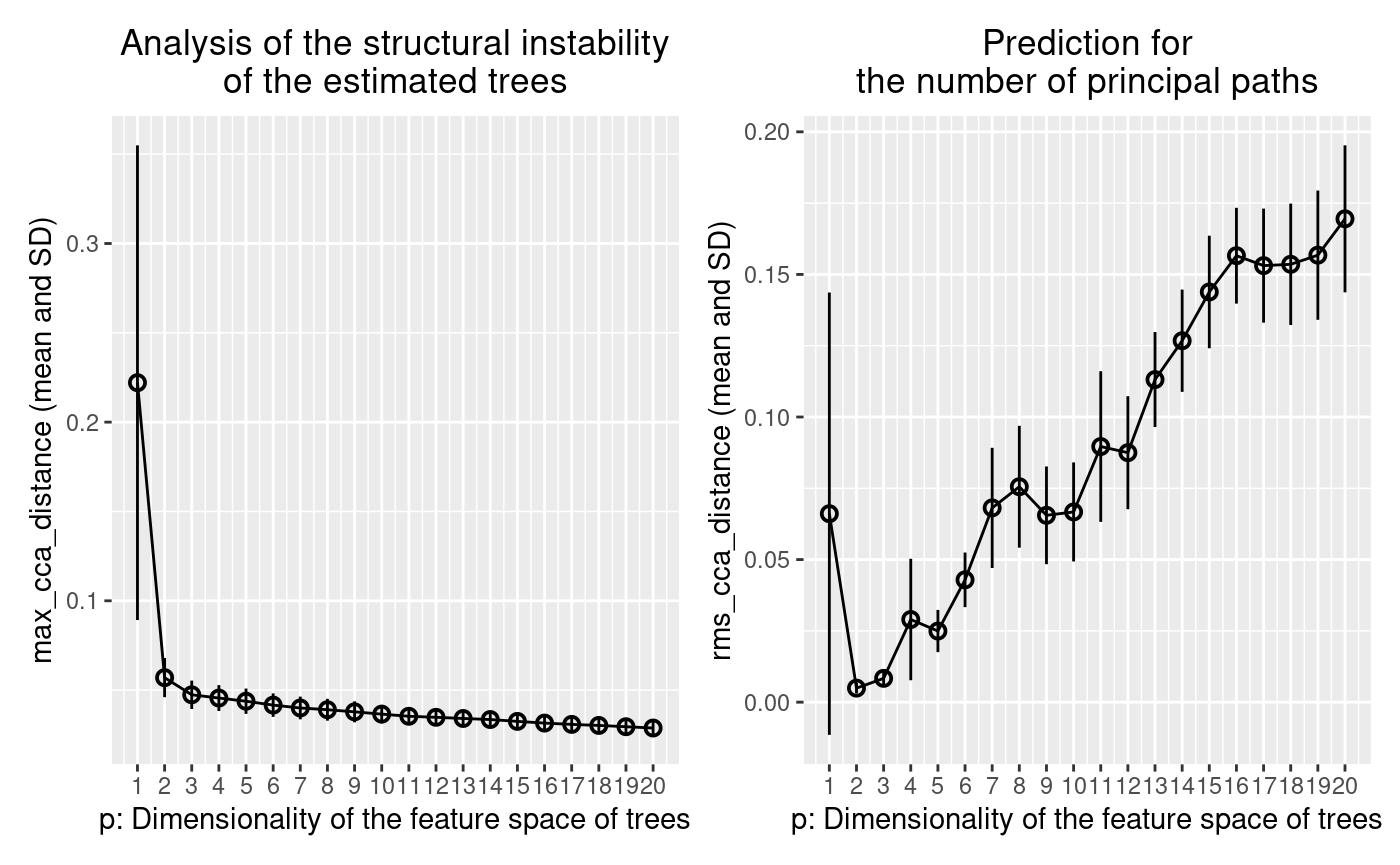
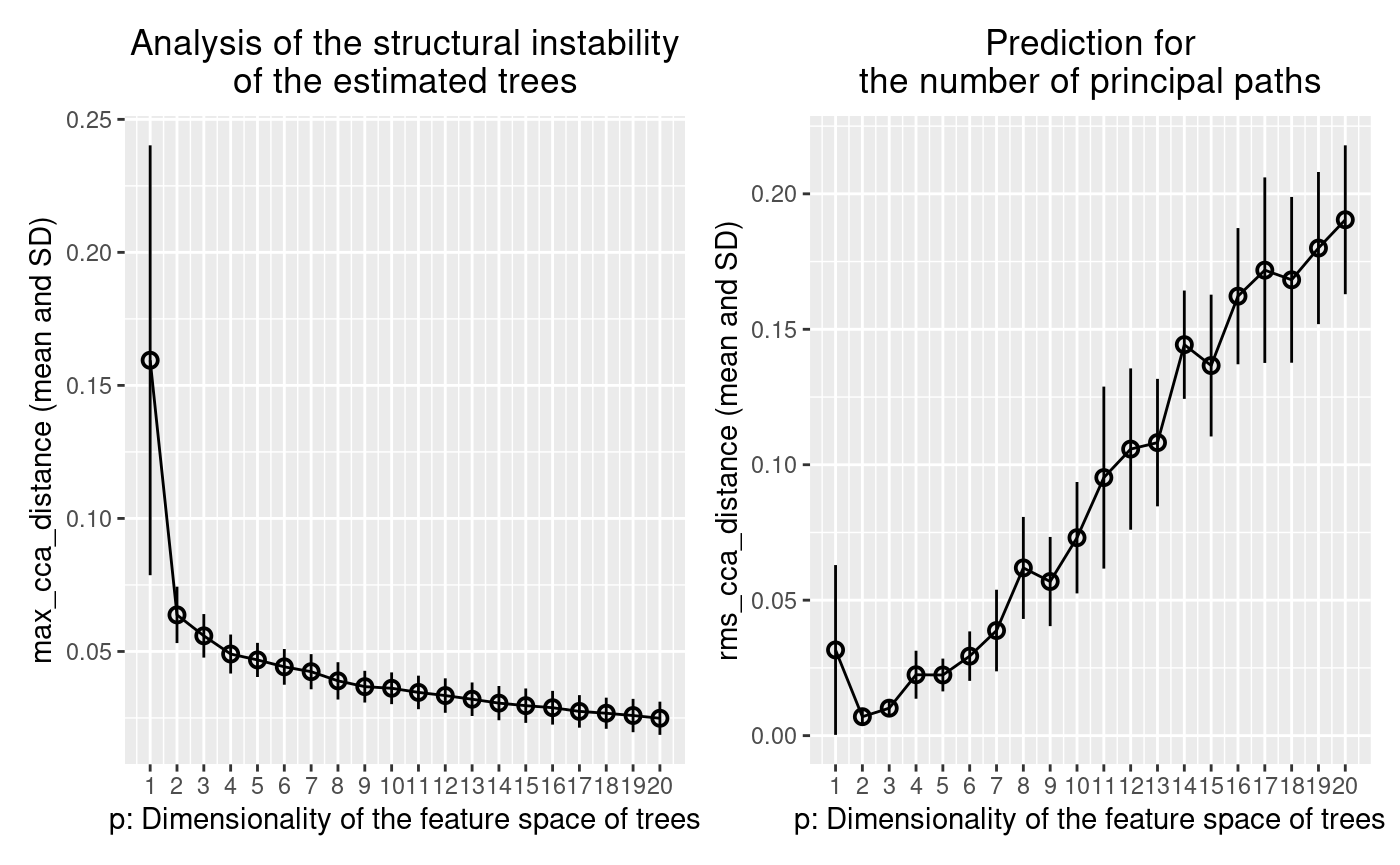
Update documents

diff --git a/docs/1.0.0/articles/treefit.html b/docs/1.0.0/articles/treefit.html
@@ -154,52 +154,52 @@ Figure 2. A scatter plot of noisy toy data generated by Treefit
 ## 
 ## $max_cca_distance
 ##     p       mean standard_deviation
-## 1   1 0.22207774        0.132862158
-## 2   2 0.05697850        0.010953653
-## 3   3 0.04738462        0.007957983
-## 4   4 0.04556243        0.007232552
-## 5   5 0.04378450        0.007089184
-## 6   6 0.04160476        0.006567665
-## 7   7 0.04000499        0.006366002
-## 8   8 0.03903339        0.006118847
-## 9   9 0.03784551        0.005884943
-## 10 10 0.03656626        0.005167894
-## 11 11 0.03535950        0.004591713
-## 12 12 0.03478244        0.004423653
-## 13 13 0.03413189        0.004124121
-## 14 14 0.03353995        0.004282381
-## 15 15 0.03250053        0.004323128
-## 16 16 0.03155152        0.003862960
-## 17 17 0.03081650        0.004078069
-## 18 18 0.03022886        0.004042348
-## 19 19 0.02951356        0.003714168
-## 20 20 0.02878805        0.003819793
+## 1   1 0.15944808        0.080786824
+## 2   2 0.06374979        0.010594737
+## 3   3 0.05587648        0.008190445
+## 4   4 0.04904369        0.007328796
+## 5   5 0.04681459        0.006417239
+## 6   6 0.04422028        0.006712903
+## 7   7 0.04240203        0.006598741
+## 8   8 0.03895063        0.007015447
+## 9   9 0.03677757        0.005962633
+## 10 10 0.03616917        0.005962774
+## 11 11 0.03461220        0.006298050
+## 12 12 0.03342942        0.006480975
+## 13 13 0.03204465        0.006298932
+## 14 14 0.03058407        0.006449666
+## 15 15 0.02963478        0.006458244
+## 16 16 0.02885938        0.006343777
+## 17 17 0.02747453        0.006120983
+## 18 18 0.02678371        0.005851636
+## 19 19 0.02592523        0.006254678
+## 20 20 0.02489788        0.006233318
 ## 
 ## $rms_cca_distance
 ##     p        mean standard_deviation
-## 1   1 0.066088256        0.077547827
-## 2   2 0.004920187        0.001889850
-## 3   3 0.008351593        0.002838944
-## 4   4 0.028980040        0.021295152
-## 5   5 0.024936437        0.007397961
-## 6   6 0.042898721        0.009581354
-## 7   7 0.068123332        0.021065050
-## 8   8 0.075547500        0.021376118
-## 9   9 0.065524849        0.017133722
-## 10 10 0.066702490        0.017372297
-## 11 11 0.089642823        0.026422857
-## 12 12 0.087491744        0.019813682
-## 13 13 0.113117000        0.016656673
-## 14 14 0.126741171        0.017928338
-## 15 15 0.143842413        0.019742957
-## 16 16 0.156566858        0.016792842
-## 17 17 0.153086987        0.019996273
-## 18 18 0.153545025        0.021279478
-## 19 19 0.156758730        0.022667627
-## 20 20 0.169489839        0.025778350
+## 1   1 0.031623874        0.031334581
+## 2   2 0.006987244        0.002337299
+## 3   3 0.010139801        0.002276433
+## 4   4 0.022470646        0.008861128
+## 5   5 0.022384100        0.006051647
+## 6   6 0.029345338        0.009124936
+## 7   7 0.038795822        0.015063872
+## 8   8 0.061913017        0.018826334
+## 9   9 0.056890818        0.016469581
+## 10 10 0.073066508        0.020558640
+## 11 11 0.095251498        0.033604789
+## 12 12 0.105779269        0.029774827
+## 13 13 0.108172778        0.023528394
+## 14 14 0.144323355        0.019997741
+## 15 15 0.136618158        0.026174061
+## 16 16 0.162222369        0.025141011
+## 17 17 0.171822259        0.034246384
+## 18 18 0.168259433        0.030607172
+## 19 19 0.179989614        0.028077026
+## 20 20 0.190436948        0.027476754
 ## 
 ## $n_principal_paths_candidates
-## [1]  3  6 10 13 18
+## [1]  3  6 10 16 19
 ## 
 ## attr(,"class")
 ## [1] "treefit"</code></pre>
@@ -217,7 +217,7 @@ Figure 3. The output for the tree-like data shown in Figure 1
 <a href="#less-tree-like-noisy-toy-data-1" class="anchor"></a>2.2. Less tree-like, noisy toy data</h3>
 <p>We can analyze the second toy data in the same manner.</p>
 <div class="sourceCode" id="cb6"><pre class="sourceCode r"><code class="sourceCode r"><a class="sourceLine" id="cb6-1" title="1">fit.less_tree_like &lt;-<span class="st"> </span>treefit<span class="op">::</span><span class="kw"><a href="https://rdrr.io/pkg/treefit/man/treefit.html">treefit</a></span>(<span class="kw"><a href="https://rdrr.io/r/base/list.html">list</a></span>(<span class="dt">expression=</span>star.less_tree_like),</a>
-<a class="sourceLine" id="cb6-2" title="2">                                      <span class="dt">name=</span><span class="st">"less-tree-like"</span>)</a>
+<a class="sourceLine" id="cb6-2" title="2">                                       <span class="dt">name=</span><span class="st">"less-tree-like"</span>)</a>
 <a class="sourceLine" id="cb6-3" title="3"><span class="co"># Save the analytsis result to use other tutorials.</span></a>
 <a class="sourceLine" id="cb6-4" title="4"><span class="kw"><a href="https://rdrr.io/r/base/readRDS.html">saveRDS</a></span>(fit.less_tree_like, <span class="st">"fit.less_tree_like.rds"</span>)</a>
 <a class="sourceLine" id="cb6-5" title="5">fit.less_tree_like</a></code></pre></div>
@@ -226,52 +226,52 @@ Figure 3. The output for the tree-like data shown in Figure 1
 ## 
 ## $max_cca_distance
 ##     p       mean standard_deviation
-## 1   1 0.46914187         0.15432025
-## 2   2 0.27110510         0.08033996
-## 3   3 0.20599623         0.05314288
-## 4   4 0.18107128         0.05800900
-## 5   5 0.16793898         0.05525089
-## 6   6 0.15145031         0.05334582
-## 7   7 0.13919294         0.04788637
-## 8   8 0.12984520         0.04564065
-## 9   9 0.12545005         0.04372439
-## 10 10 0.11912558         0.03996984
-## 11 11 0.11167550         0.03539982
-## 12 12 0.10750464         0.03496488
-## 13 13 0.09677703         0.02928181
-## 14 14 0.09431659         0.02860111
-## 15 15 0.08745945         0.02582467
-## 16 16 0.08360252         0.02620819
-## 17 17 0.08106870         0.02479832
-## 18 18 0.07665439         0.02322454
-## 19 19 0.07385218         0.02132834
-## 20 20 0.07213136         0.02045777
+## 1   1 0.47343135         0.19730822
+## 2   2 0.25114667         0.05233404
+## 3   3 0.21527536         0.03786608
+## 4   4 0.19175361         0.03588504
+## 5   5 0.17465724         0.03744595
+## 6   6 0.15146467         0.03420347
+## 7   7 0.12901100         0.03597212
+## 8   8 0.12249087         0.03289082
+## 9   9 0.11790721         0.03092478
+## 10 10 0.10796651         0.02653031
+## 11 11 0.10093718         0.02469578
+## 12 12 0.09684883         0.02332913
+## 13 13 0.09208538         0.02384131
+## 14 14 0.08816012         0.02104161
+## 15 15 0.08590189         0.02007525
+## 16 16 0.08300275         0.01985852
+## 17 17 0.08190812         0.02001626
+## 18 18 0.08028083         0.01939304
+## 19 19 0.07830362         0.01811760
+## 20 20 0.07478951         0.01679053
 ## 
 ## $rms_cca_distance
 ##     p      mean standard_deviation
-## 1   1 0.2427181         0.17171348
-## 2   2 0.1473748         0.08286906
-## 3   3 0.2023159         0.09387195
-## 4   4 0.2310660         0.06686906
-## 5   5 0.2828736         0.06168996
-## 6   6 0.3284896         0.06375435
-## 7   7 0.3258731         0.06043883
-## 8   8 0.2945015         0.05792336
-## 9   9 0.3131782         0.05099725
-## 10 10 0.3187131         0.04965797
-## 11 11 0.3262961         0.04929783
-## 12 12 0.3105639         0.04343384
-## 13 13 0.3055427         0.03752006
-## 14 14 0.3024462         0.04368209
-## 15 15 0.3000995         0.05205513
-## 16 16 0.3013300         0.04879938
-## 17 17 0.3114987         0.04892690
-## 18 18 0.3146907         0.04504537
-## 19 19 0.3217625         0.05026691
-## 20 20 0.3150403         0.04428657
+## 1   1 0.2611212         0.23153838
+## 2   2 0.1020510         0.03613444
+## 3   3 0.2085653         0.10518241
+## 4   4 0.2625540         0.08417689
+## 5   5 0.2826318         0.09317319
+## 6   6 0.3071232         0.07315173
+## 7   7 0.3161327         0.06276053
+## 8   8 0.3035636         0.05866871
+## 9   9 0.3141727         0.04856548
+## 10 10 0.3164844         0.04285037
+## 11 11 0.3288808         0.04072976
+## 12 12 0.2995099         0.04169197
+## 13 13 0.3087054         0.04200793
+## 14 14 0.3119395         0.03907616
+## 15 15 0.3206773         0.03821475
+## 16 16 0.3282625         0.03741899
+## 17 17 0.3393654         0.03370764
+## 18 18 0.3479858         0.03610781
+## 19 19 0.3464760         0.03478315
+## 20 20 0.3473163         0.03663275
 ## 
 ## $n_principal_paths_candidates
-## [1]  3  9 16
+## [1]  3  9 13 20
 ## 
 ## attr(,"class")
 ## [1] "treefit"</code></pre>

diff --git a/docs/1.0.0/reference/plot.treefit.html b/docs/1.0.0/reference/plot.treefit.html
@@ -159,16 +159,21 @@ other graphical parameters.</p></td>
     </tr>
     </table>
 
+    <h2 class="hasAnchor" id="value"><a class="anchor" href="#value"></a>Value</h2>
+
+    <p>A plot object as a <code>ggplot</code> object. It plots the given one
+or more estimated results to get insights from one or more
+<code><a href='treefit.html'>treefit()</a></code> results.</p>
 
     <h2 class="hasAnchor" id="examples"><a class="anchor" href="#examples"></a>Examples</h2>
     <pre class="examples"><div class='input'><span class='co'># Generate a tree data.</span>
-<span class='no'>tree</span> <span class='kw'>&lt;-</span> <span class='kw pkg'>treefit</span><span class='kw ns'>::</span><span class='fu'><a href='https://rdrr.io/pkg/treefit/man/generate_2d_n_arms_star_data.html'>generate_2d_n_arms_star_data</a></span>(<span class='fl'>300</span>, <span class='fl'>3</span>, <span class='fl'>0.1</span>)
+<span class='no'>tree</span> <span class='kw'>&lt;-</span> <span class='kw pkg'>treefit</span><span class='kw ns'>::</span><span class='fu'><a href='https://rdrr.io/pkg/treefit/man/generate_2d_n_arms_star_data.html'>generate_2d_n_arms_star_data</a></span>(<span class='fl'>200</span>, <span class='fl'>3</span>, <span class='fl'>0.1</span>)
 <span class='co'># Estimate the goodness-of-fit between tree models and the tree data.</span>
 <span class='no'>fit</span> <span class='kw'>&lt;-</span> <span class='kw pkg'>treefit</span><span class='kw ns'>::</span><span class='fu'><a href='https://rdrr.io/pkg/treefit/man/treefit.html'>treefit</a></span>(<span class='fu'><a href='https://rdrr.io/r/base/list.html'>list</a></span>(<span class='kw'>expression</span><span class='kw'>=</span><span class='no'>tree</span>), <span class='st'>"tree"</span>)
 <span class='co'># Visualize the estimated result.</span>
 <span class='fu'><a href='https://rdrr.io/r/graphics/plot.html'>plot</a></span>(<span class='no'>fit</span>)</div><div class='img'><img src='plot.treefit-1.png' alt='' width='700' height='433' /></div><div class='input'>
 <span class='co'># You can mix multiple estimated results by adding "name" column.</span>
-<span class='no'>tree2</span> <span class='kw'>&lt;-</span> <span class='kw pkg'>treefit</span><span class='kw ns'>::</span><span class='fu'><a href='https://rdrr.io/pkg/treefit/man/generate_2d_n_arms_star_data.html'>generate_2d_n_arms_star_data</a></span>(<span class='fl'>300</span>, <span class='fl'>3</span>, <span class='fl'>0.9</span>)
+<span class='no'>tree2</span> <span class='kw'>&lt;-</span> <span class='kw pkg'>treefit</span><span class='kw ns'>::</span><span class='fu'><a href='https://rdrr.io/pkg/treefit/man/generate_2d_n_arms_star_data.html'>generate_2d_n_arms_star_data</a></span>(<span class='fl'>200</span>, <span class='fl'>3</span>, <span class='fl'>0.9</span>)
 <span class='no'>fit2</span> <span class='kw'>&lt;-</span> <span class='kw pkg'>treefit</span><span class='kw ns'>::</span><span class='fu'><a href='https://rdrr.io/pkg/treefit/man/treefit.html'>treefit</a></span>(<span class='fu'><a href='https://rdrr.io/r/base/list.html'>list</a></span>(<span class='kw'>expression</span><span class='kw'>=</span><span class='no'>tree2</span>), <span class='st'>"tree2"</span>)
 <span class='fu'><a href='https://rdrr.io/r/graphics/plot.html'>plot</a></span>(<span class='no'>fit</span>, <span class='no'>fit2</span>)</div><div class='img'><img src='plot.treefit-2.png' alt='' width='700' height='433' /></div><div class='input'>
 </div></pre>
@@ -177,6 +182,7 @@ other graphical parameters.</p></td>
     <h2>Contents</h2>
     <ul class="nav nav-pills nav-stacked">
       <li><a href="#arguments">Arguments</a></li>
+      <li><a href="#value">Value</a></li>
       <li><a href="#examples">Examples</a></li>
     </ul>
 

diff --git a/docs/1.0.0/reference/generate_2d_n_arms_linked_star_data.html b/docs/1.0.0/reference/generate_2d_n_arms_linked_star_data.html
@@ -190,11 +190,11 @@ samples and features.</p>
 <span class='co'># Generate a 2-dimensional linked star tree data that contain</span>
 <span class='co'># 300-200 data points and fit a linked star tree with 4-3 arms.</span>
 <span class='co'># The generated data are very noisy and less tree-like.</span>
-<span class='no'>linked_star.non_tree_like</span> <span class='kw'>&lt;-</span>
+<span class='no'>linked_star.less_tree_like</span> <span class='kw'>&lt;-</span>
   <span class='kw pkg'>treefit</span><span class='kw ns'>::</span><span class='fu'><a href='https://rdrr.io/pkg/treefit/man/generate_2d_n_arms_linked_star_data.html'>generate_2d_n_arms_linked_star_data</a></span>(<span class='fu'><a href='https://rdrr.io/r/base/c.html'>c</a></span>(<span class='fl'>300</span>, <span class='fl'>200</span>),
                                                <span class='fu'><a href='https://rdrr.io/r/base/c.html'>c</a></span>(<span class='fl'>4</span>, <span class='fl'>3</span>),
                                                <span class='fl'>0.9</span>)
-<span class='fu'><a href='https://rdrr.io/r/graphics/plot.html'>plot</a></span>(<span class='no'>linked_star.non_tree_like</span>)</div><div class='img'><img src='generate_2d_n_arms_linked_star_data-2.png' alt='' width='700' height='433' /></div><div class='input'>
+<span class='fu'><a href='https://rdrr.io/r/graphics/plot.html'>plot</a></span>(<span class='no'>linked_star.less_tree_like</span>)</div><div class='img'><img src='generate_2d_n_arms_linked_star_data-2.png' alt='' width='700' height='433' /></div><div class='input'>
 </div></pre>
   </div>
   <div class="col-md-3 hidden-xs hidden-sm" id="sidebar">

diff --git a/docs/1.0.0/reference/generate_2d_n_arms_star_data.html b/docs/1.0.0/reference/generate_2d_n_arms_star_data.html
@@ -178,8 +178,8 @@ samples and features.</p>
 <span class='co'># Generate a 2-dimensional star tree data that contain 600 data points</span>
 <span class='co'># and fit a star tree with 5 arms. The generated data are very noisy and</span>
 <span class='co'># less tree-like.</span>
-<span class='no'>star.non_tree_like</span> <span class='kw'>&lt;-</span> <span class='kw pkg'>treefit</span><span class='kw ns'>::</span><span class='fu'><a href='https://rdrr.io/pkg/treefit/man/generate_2d_n_arms_star_data.html'>generate_2d_n_arms_star_data</a></span>(<span class='fl'>600</span>, <span class='fl'>5</span>, <span class='fl'>0.9</span>)
-<span class='fu'><a href='https://rdrr.io/r/graphics/plot.html'>plot</a></span>(<span class='no'>star.non_tree_like</span>)</div><div class='img'><img src='generate_2d_n_arms_star_data-2.png' alt='' width='700' height='433' /></div><div class='input'>
+<span class='no'>star.less_tree_like</span> <span class='kw'>&lt;-</span> <span class='kw pkg'>treefit</span><span class='kw ns'>::</span><span class='fu'><a href='https://rdrr.io/pkg/treefit/man/generate_2d_n_arms_star_data.html'>generate_2d_n_arms_star_data</a></span>(<span class='fl'>600</span>, <span class='fl'>5</span>, <span class='fl'>0.9</span>)
+<span class='fu'><a href='https://rdrr.io/r/graphics/plot.html'>plot</a></span>(<span class='no'>star.less_tree_like</span>)</div><div class='img'><img src='generate_2d_n_arms_star_data-2.png' alt='' width='700' height='433' /></div><div class='input'>
 </div></pre>
   </div>
   <div class="col-md-3 hidden-xs hidden-sm" id="sidebar">

diff --git a/docs/1.0.0/reference/treefit.html b/docs/1.0.0/reference/treefit.html
@@ -152,7 +152,7 @@ data.</p>
   <span class='kw'>reduce_dimension</span> <span class='kw'>=</span> <span class='kw'>NULL</span>,
   <span class='kw'>build_tree</span> <span class='kw'>=</span> <span class='kw'>NULL</span>,
   <span class='kw'>max_p</span> <span class='kw'>=</span> <span class='fl'>20</span>,
-  <span class='kw'>verbose</span> <span class='kw'>=</span> <span class='fl'>FALSE</span>
+  <span class='kw'>n_perturbations</span> <span class='kw'>=</span> <span class='fl'>20</span>
 )</pre>
 
     <h2 class="hasAnchor" id="arguments"><a class="anchor" href="#arguments"></a>Arguments</h2>
@@ -205,16 +205,16 @@ available methods:</p></td>
 <p>The default is 20.</p></td>
     </tr>
     <tr>
-      <th>verbose</th>
-      <td><p>Show messages if <code>TRUE</code>, don't show any messages otherwise.</p>
-<p>The default is <code>FALSE</code></p></td>
+      <th>n_perturbations</th>
+      <td><p>How many times to perturb.</p>
+<p>The default is 20.</p></td>
     </tr>
     </table>
 
     <h2 class="hasAnchor" id="value"><a class="anchor" href="#value"></a>Value</h2>
 
     <p>An estimated result as a <code>treefit</code> object. It has the
-following elements:</p><ul>
+following attributes:</p><ul>
 <li><p><code>max_cca_distance</code>: The result of max canonical correlation
 analysis distance as <code>data.frame</code>.</p></li>
 <li><p><code>rms_cca_distance</code>: The result of root mean square canonical

diff --git a/docs/1.0.0/reference/perturbate_poisson.html b/docs/1.0.0/reference/perturbate_poisson.html
@@ -160,6 +160,12 @@ to samples and features. The values are count of features.</p></td>
     </tr>
     </table>
 
+    <h2 class="hasAnchor" id="value"><a class="anchor" href="#value"></a>Value</h2>
+
+    <p>A perturbated counts as a <code>matrix</code>. The matrix's counts are
+perturbated from the original counts. The shape of the matrix is
+the same as the original counts. The dimension names of the
+matrix are also the same as the original counts.</p>
     <h2 class="hasAnchor" id="note"><a class="anchor" href="#note"></a>Note</h2>
 
     <p>This is an API for advanced users. This API may be changed.</p>
@@ -169,6 +175,7 @@ to samples and features. The values are count of features.</p></td>
     <h2>Contents</h2>
     <ul class="nav nav-pills nav-stacked">
       <li><a href="#arguments">Arguments</a></li>
+      <li><a href="#value">Value</a></li>
       <li><a href="#note">Note</a></li>
     </ul>
 

diff --git a/docs/1.0.0/reference/perturbate_knn.html b/docs/1.0.0/reference/perturbate_knn.html
@@ -161,6 +161,13 @@ count of features.</p></td>
     </tr>
     </table>
 
+    <h2 class="hasAnchor" id="value"><a class="anchor" href="#value"></a>Value</h2>
+
+    <p>A perturbated expression as a <code>matrix</code>. The matrix's
+expression values are perturbated from the original expression
+values. The shape of the matrix is the same as the original
+expression. The dimension names of the matrix are also the same as
+the original expression.</p>
     <h2 class="hasAnchor" id="note"><a class="anchor" href="#note"></a>Note</h2>
 
     <p>This is an API for advanced users. This API may be changed.</p>
@@ -170,6 +177,7 @@ count of features.</p></td>
     <h2>Contents</h2>
     <ul class="nav nav-pills nav-stacked">
       <li><a href="#arguments">Arguments</a></li>
+      <li><a href="#value">Value</a></li>
       <li><a href="#note">Note</a></li>
     </ul>
 

diff --git a/docs/1.0.0/index.html b/docs/1.0.0/index.html
@@ -153,8 +153,7 @@
 <div class="license">
 <h2>License</h2>
 <ul class="list-unstyled">
-<li>GPL (&gt;= 3) | file <a href="LICENSE-text.html">LICENSE</a>
-</li>
+<li>GPL (&gt;= 3)</li>
 </ul>
 </div>
 <div class="developers">
